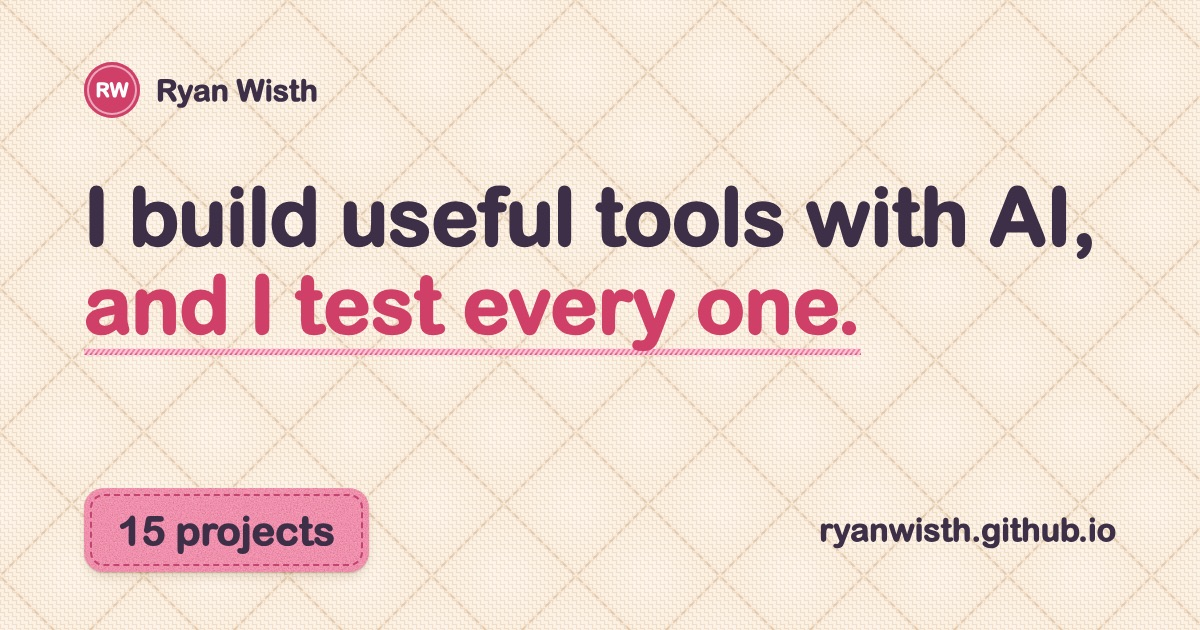
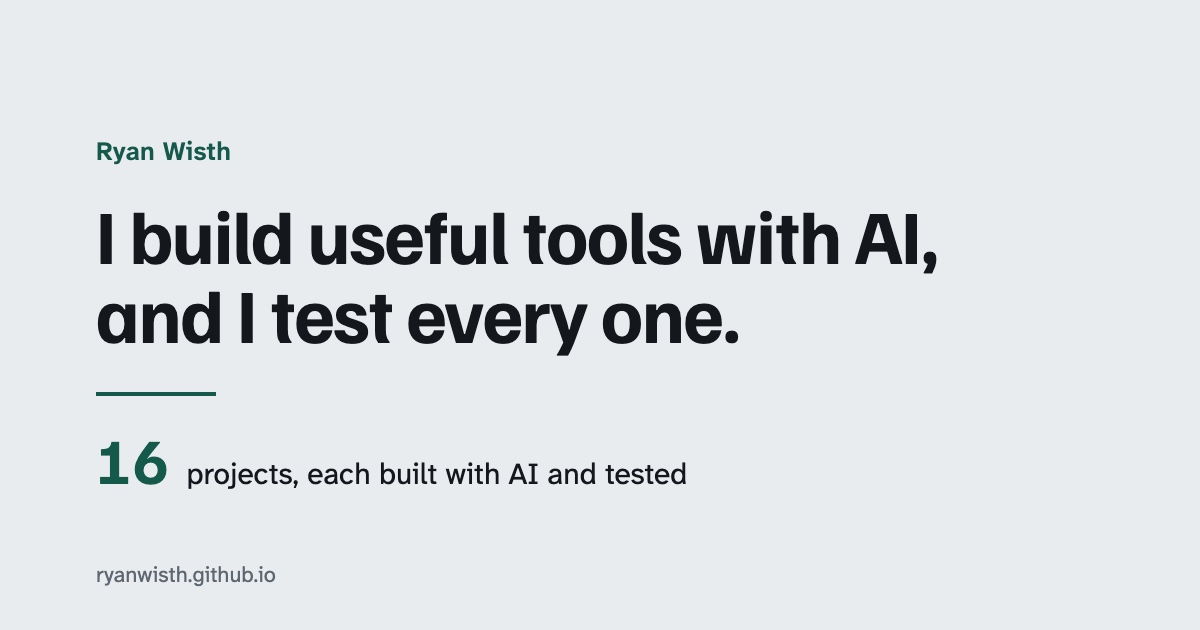
Fact fixes before publish: 16 projects in the home script, Studio share card, local-AI description and token gloss, 27% -> 7% caption, triple 'to' un-nested

diff --git a/index.html b/index.html
@@ -41,7 +41,7 @@
         <div class="film hero-film">
         <span class="shot"><video data-auto data-sound controls muted loop playsinline preload="none" poster="img/film-index.jpg" width="960" height="540" aria-label="Narrated film, 38 seconds" aria-describedby="film-script-text"><source src="video/film-index.mp4" type="video/mp4"></video></span>
         <p class="film-cap">Narrated film, 38 s. <span class="hx-x">Press ♪ for sound.</span><span class="hx-alt">It starts muted.</span></p>
-        <details class="film-script"><summary>Read the script</summary><p id="film-script-text">15 projects, each one built with AI, and each one tested. AI feedback, handwritten onto a paper tablet. One tap checks up to 24 pages. A 3D family tree you can turn, with a map of moves, all in one small file. And a private phone app to follow and answer AI chats running on a computer. 12 of the 16 desktop features work there. In a fact-checking routine, new problems found fell from 27% to 7%. The code for 13 is public on GitHub. Pick a project below.</p></details>
+        <details class="film-script"><summary>Read the script</summary><p id="film-script-text">16 projects, each one built with AI, and each one tested. AI feedback, handwritten onto a paper tablet. One tap checks up to 24 pages. A 3D family tree you can turn, with a map of moves, all in one small file. And a private phone app to follow and answer AI chats running on a computer. 12 of the 16 desktop features work there. In a fact-checking routine, first checks that found a problem fell from 27% to 7%, the sign for when to stop. The code for 13 is public on GitHub. Pick a project below.</p></details>
       </div>
         <p class="hero-sub">Here are 16 of my projects. For each one, I decided what it had to do, AI wrote most of the code, and I tested it before calling it finished. One of them cut each AI helper&rsquo;s starting cost by about two thirds. Start with these three.</p>
         <p class="hero-mail"><a href="mailto:ryanwisth@gmail.com">ryanwisth@gmail.com</a></p>
@@ -69,7 +69,7 @@
         <div class="fact"><b>16</b><span>projects, each built with AI and tested</span></div>
         <div class="fact"><b>13</b><span>with public code on GitHub, in 14 repos</span></div>
         <div class="fact"><b>&minus;&#8532;</b><span>each AI helper&rsquo;s starting cost, cut by about two thirds</span></div>
-        <div class="fact"><b><span class="fit">27<small>%</small><i class="hx-x"><i class="hx-x"><i class="hx-x">&thinsp;&rarr;&thinsp;</i><i class="hx-alt"> to </i></i><i class="hx-alt"> to </i></i><i class="hx-alt"> to </i>7<small>%</small></span></b><span>new problems found, after a fact-checking routine</span></div>
+        <div class="fact"><b><span class="fit">27<small>%</small><i class="hx-x">&thinsp;&rarr;&thinsp;</i><i class="hx-alt"> to </i>7<small>%</small></span></b><span>first checks that found a problem, early batches against late: the sign for when to stop</span></div>
         <div class="fact"><b>12<small>/16</small></b><span>desktop features that also work on my phone</span></div>
       </div>
     </div>
@@ -95,7 +95,7 @@
           <ul>
             <li><a href="checking-ai-work.html"><img class="more-thumb" src="img/film-checking-ai-work.jpg" alt="" width="960" height="540" loading="lazy" decoding="async"><b>Making AI work easy to check</b><span>3 tools; 517 statements written by AI, each checked and recorded</span></a></li>
             <li><a href="evidence-pipeline.html"><img class="more-thumb" src="img/film-evidence-pipeline.jpg" alt="" width="960" height="540" loading="lazy" decoding="async"><b>A family tree built only from real records</b><span>Every fact quotes its record; 31 weak guesses were thrown out</span></a></li>
-            <li><a href="claim-ledger.html"><img class="more-thumb" src="img/film-claim-ledger.jpg" alt="" width="960" height="540" loading="lazy" decoding="async"><b>A fact-checking routine that stopped slipping</b><span>Used daily; new problems found fell from 27% to 7%</span></a></li>
+            <li><a href="claim-ledger.html"><img class="more-thumb" src="img/film-claim-ledger.jpg" alt="" width="960" height="540" loading="lazy" decoding="async"><b>A fact-checking routine that stopped slipping</b><span>Used daily; first checks that found a problem fell from 27% to 7%</span></a></li>
             <li><a href="pinball-study.html"><img class="more-thumb" src="img/film-pinball-study.jpg" alt="" width="960" height="540" loading="lazy" decoding="async"><b>A study set up so it could prove me wrong</b><span>9 predictions written down first, then tested on 94 real pinball tables</span></a></li>
           </ul>
         </div>

diff --git a/local-ai-stack.html b/local-ai-stack.html
@@ -4,10 +4,10 @@
 <meta charset="utf-8">
 <meta name="viewport" content="width=device-width, initial-scale=1">
 <title>A private AI assistant on my laptop | Ryan Wisth</title>
-<meta name="description" content="A private AI assistant that runs entirely on my Mac laptop, with tools, voice, document reading and web search, and nothing sent to the cloud.">
+<meta name="description" content="A private AI assistant that runs entirely on my Mac laptop, with tools, voice, document reading and web search; only the web searches go online.">
 <meta property="og:title" content="A private AI assistant on my laptop | Ryan Wisth">
 <meta property="og:url" content="https://ryanwisth.github.io/local-ai-stack.html">
-<meta property="og:description" content="A private AI assistant that runs entirely on my Mac laptop, with tools, voice, document reading and web search, and nothing sent to the cloud.">
+<meta property="og:description" content="A private AI assistant that runs entirely on my Mac laptop, with tools, voice, document reading and web search; only the web searches go online.">
 <meta property="og:image" content="https://ryanwisth.github.io/img/card.jpg">
 <meta name="twitter:card" content="summary_large_image">
 <meta name="theme-color" content="#f58fb0" media="(prefers-color-scheme: light)">
@@ -68,7 +68,7 @@
   <div class="prose case-part">
     <dl class="brief">
       <dt>Problem</dt><dd>Online AI assistants send every message and file off the computer. Keeping it all at home means making the AI, its tools, search and voice run together on one laptop with limited memory.</dd>
-      <dt>Result</dt><dd>A private assistant running entirely on one 64 GB MacBook Pro, in regular use through September 2026. The 27B model went from 13.7 to as much as 37.5 tokens per second (the units AI use is billed in), 2.7 times its normal speed. 26 toolkits sit behind one locked door. Every part is reachable only from this computer. And a watchdog restarts anything that goes down within 60 seconds.</dd>
+      <dt>Result</dt><dd>A private assistant running entirely on one 64 GB MacBook Pro, in regular use through September 2026. The 27B model went from 13.7 to as much as 37.5 tokens per second (a token is a piece of a word), 2.7 times its normal speed. 26 toolkits sit behind one locked door. Every part is reachable only from this computer. And a watchdog restarts anything that goes down within 60 seconds.</dd>
     </dl>
   </div>
 
@@ -81,7 +81,7 @@
       <div><dt>My rules</dt><dd><ul><li>Reachable only from this computer</li><li>A watchdog, because programs crash</li><li>Limit what the tools can touch</li></ul></dd></div>
       <div><dt>AI wrote</dt><dd>most of the scripts that tie it together</dd></div>
       <div><dt>I tested</dt><dd><ul><li>Speed measured on the laptop</li><li>Idle against real use: 37.5 and a typical 23.4</li><li>Checked what each part is open to</li></ul></dd></div>
-      <div><dt>Now</dt><dd>A private assistant running entirely on one 64 GB MacBook Pro, in regular use through September 2026. The 27B model went from 13.7 to as much as 37.5 tokens per second (the units AI use is billed in), 2.7 times its normal speed. 26 toolkits sit behind one locked door. Every part is reachable only from this computer. And a watchdog restarts anything that goes down within 60 seconds.</dd></div>
+      <div><dt>Now</dt><dd>A private assistant running entirely on one 64 GB MacBook Pro, in regular use through September 2026. The 27B model went from 13.7 to as much as 37.5 tokens per second (a token is a piece of a word), 2.7 times its normal speed. 26 toolkits sit behind one locked door. Every part is reachable only from this computer. And a watchdog restarts anything that goes down within 60 seconds.</dd></div>
     </dl>
   </section>
   <!-- /hx-log -->
